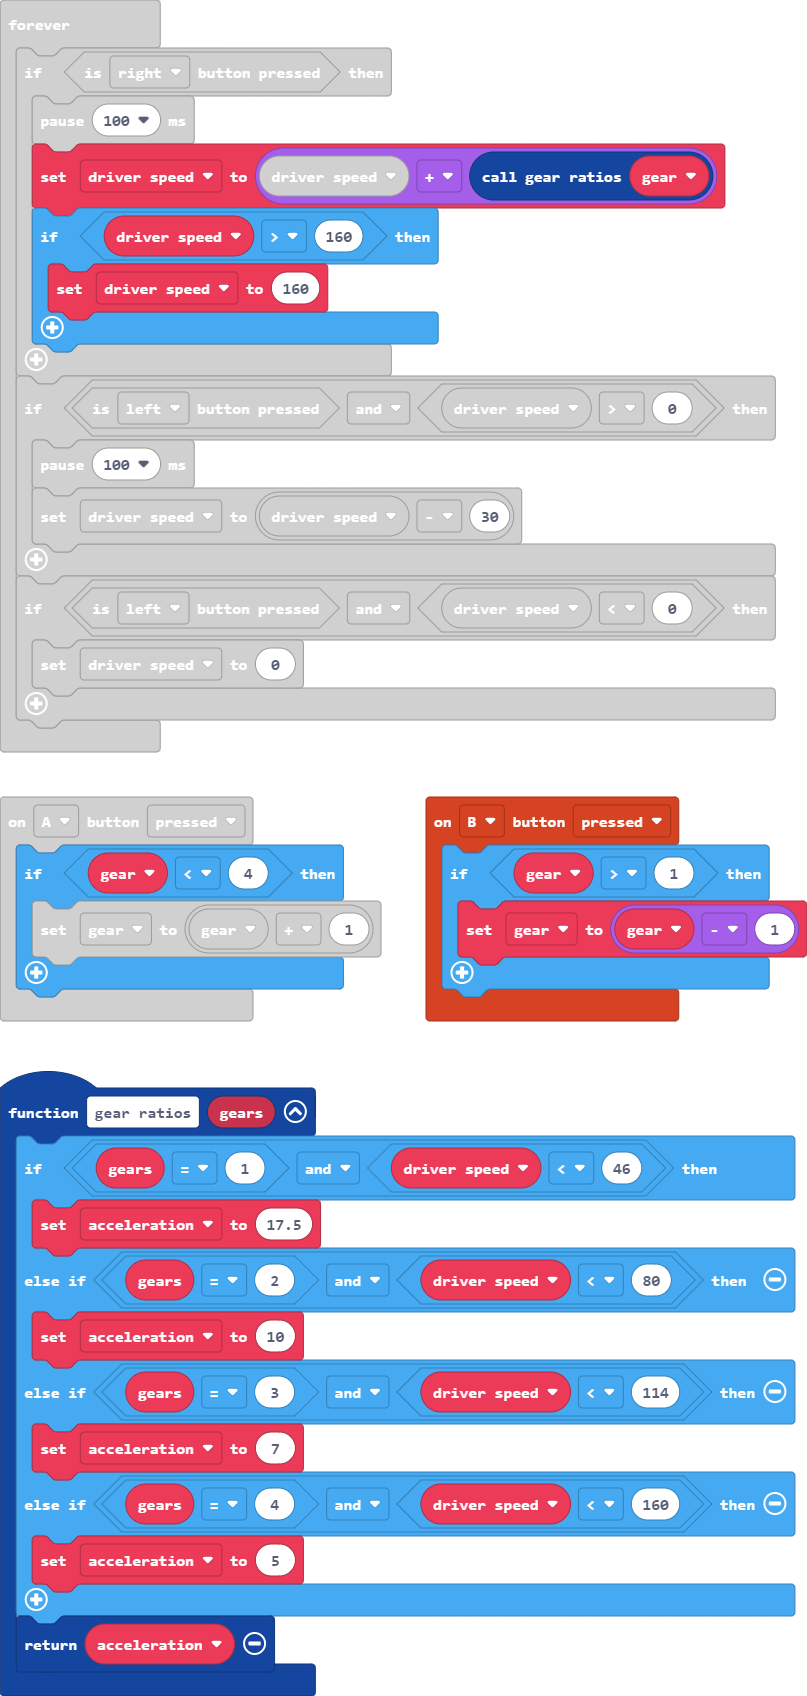
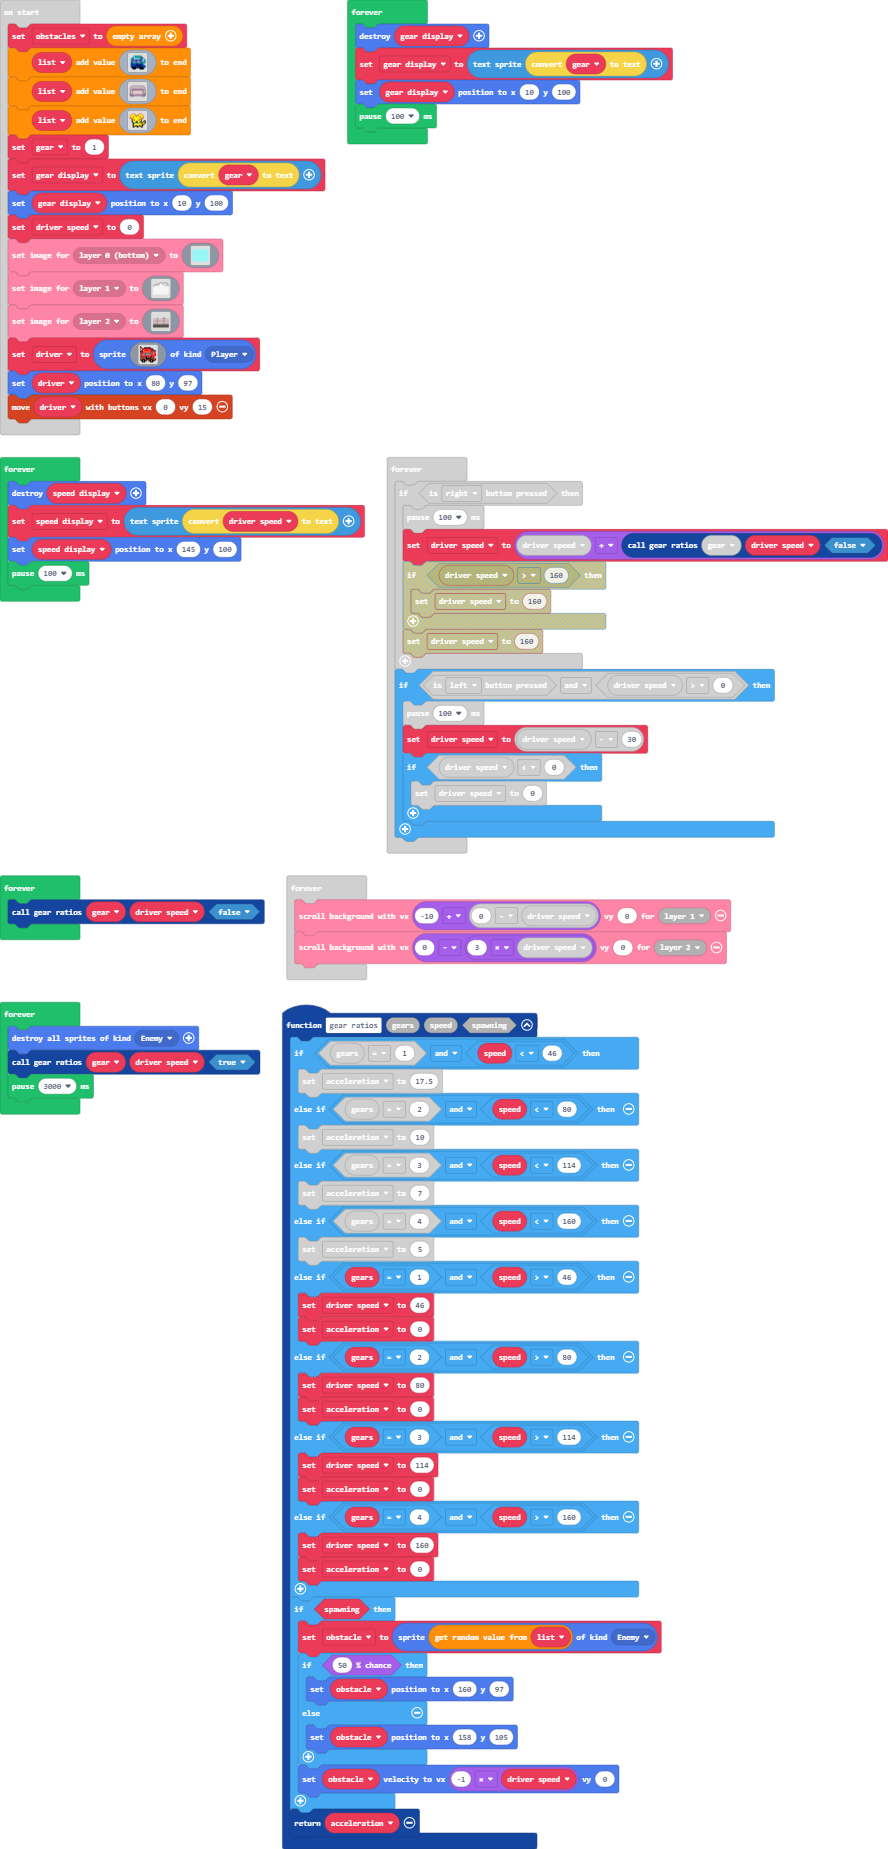
Update pxt.json, main.blocks, main.ts

diff --git a/main.ts b/main.ts
@@ -1,12 +1,36 @@
-function gear_ratios (gears: number) {
-    if (gears == 1 && driver_speed < 46) {
+namespace SpriteKind {
+    export const stationary = SpriteKind.create()
+}
+function gear_ratios (gears: number, speed: number, spawning: boolean) {
+    if (gears == 1 && speed < 46) {
         acceleration = 17.5
-    } else if (gears == 2 && driver_speed < 80) {
+    } else if (gears == 2 && speed < 80) {
         acceleration = 10
-    } else if (gears == 3 && driver_speed < 114) {
+    } else if (gears == 3 && speed < 114) {
         acceleration = 7
-    } else if (gears == 4 && driver_speed < 160) {
+    } else if (gears == 4 && speed < 160) {
         acceleration = 5
+    } else if (gears == 1 && speed > 46) {
+        driver_speed = 46
+        acceleration = 0
+    } else if (gears == 2 && speed > 80) {
+        driver_speed = 80
+        acceleration = 0
+    } else if (gears == 3 && speed > 114) {
+        driver_speed = 114
+        acceleration = 0
+    } else if (gears == 4 && speed > 160) {
+        driver_speed = 160
+        acceleration = 0
+    }
+    if (spawning) {
+        obstacle = sprites.create(list._pickRandom(), SpriteKind.Enemy)
+        if (Math.percentChance(50)) {
+            obstacle.setPosition(160, 97)
+        } else {
+            obstacle.setPosition(158, 105)
+        }
+        obstacle.setVelocity(-1 * driver_speed, 0)
     }
     return acceleration
 }
@@ -20,10 +44,68 @@ controller.A.onEvent(ControllerButtonEvent.Pressed, function () {
         gear = gear + 1
     }
 })
+let speed_display: TextSprite = null
+let obstacle: Sprite = null
 let acceleration = 0
 let driver_speed = 0
 let gear = 0
+let list: Image[] = []
+let obstacles: number[] = []
+list.push(img`
+    . . . . . . . . . . . . . . . . 
+    . . . . 6 6 6 6 6 6 6 6 . . . . 
+    . . . 6 9 6 6 6 6 6 6 c 6 . . . 
+    . . 6 c 9 6 6 6 6 6 6 c c 6 . . 
+    . 6 c c 9 9 9 9 9 9 6 c c 9 6 d 
+    . 6 c 6 8 8 8 8 8 8 8 b c 9 6 6 
+    . 6 6 8 b b 8 b b b 8 8 b 9 6 6 
+    . 6 8 b b b 8 b b b b 8 6 6 6 6 
+    . 8 8 6 6 6 8 6 6 6 6 6 8 6 6 6 
+    . 8 8 8 8 8 8 f 8 8 8 f 8 6 d d 
+    . 8 8 8 8 8 8 f 8 8 f 8 8 8 6 d 
+    . 8 8 8 8 8 8 f f f 8 8 8 8 8 8 
+    . 8 f f f f 8 8 8 8 f f f 8 8 8 
+    . . f f f f f 8 8 f f f f f 8 . 
+    . . . f f f . . . . f f f f . . 
+    . . . . . . . . . . . . . . . . 
+    `)
+list.push(img`
+    ...cccccccccccccccccc...
+    ..cbddddddddddddddddbc..
+    .cddddddddddddddddddddc.
+    .cddbbbbbbbbbbbbbbbbddc.
+    .cdbbbbbbbbbbbbbbbbbbdc.
+    .cdbbbbbbbbbbbbbbbbbbdc.
+    cbbbccccccccccccccccbbbc
+    cddcbddddddddddddddbcddc
+    cddcddddddddddddddddcddc
+    cddcddddddddddddddddcddc
+    cddcddddddddddddddddcddc
+    cbdcddddddddddddddddcdbc
+    ccbbbbbbbbbbbbbbbbbbbbcc
+    ccbbbbbbbbbbbbbbbbbbbbcc
+    cccccccccccccccccccccccc
+    ..cbbc............cbbc..
+    `)
+list.push(img`
+    . . 4 4 4 . . . . 4 4 4 . . . . 
+    . 4 5 5 5 e . . e 5 5 5 4 . . . 
+    4 5 5 5 5 5 e e 5 5 5 5 5 4 . . 
+    4 5 5 4 4 5 5 5 5 4 4 5 5 4 . . 
+    e 5 4 4 5 5 5 5 5 5 4 4 5 e . . 
+    . e e 5 5 5 5 5 5 5 5 e e . . . 
+    . . e 5 f 5 5 5 5 f 5 e . . . . 
+    . . f 5 5 5 4 4 5 5 5 f . . f f 
+    . . f 4 5 5 f f 5 5 6 f . f 5 f 
+    . . . f 6 6 6 6 6 6 4 4 f 5 5 f 
+    . . . f 4 5 5 5 5 5 5 4 4 5 f . 
+    . . . f 5 5 5 5 5 4 5 5 f f . . 
+    . . . f 5 f f f 5 f f 5 f . . . 
+    . . . f f . . f f . . f f . . . 
+    `)
 gear = 1
+let gear_display = textsprite.create(convertToText(gear))
+gear_display.setPosition(10, 100)
 driver_speed = 0
 scroller.setLayerImage(scroller.BackgroundLayer.Layer0, assets.image`sky`)
 scroller.setLayerImage(scroller.BackgroundLayer.Layer1, img`
@@ -274,6 +356,12 @@ let driver = sprites.create(assets.image`race car`, SpriteKind.Player)
 driver.setPosition(80, 97)
 controller.moveSprite(driver, 0, 15)
 forever(function () {
+    sprites.destroy(gear_display)
+    gear_display = textsprite.create(convertToText(gear))
+    gear_display.setPosition(10, 100)
+    pause(100)
+})
+forever(function () {
     if (driver.y <= 92) {
         driver.setPosition(80, 93)
     } else if (driver.y >= 116) {
@@ -281,22 +369,33 @@ forever(function () {
     }
 })
 forever(function () {
+    sprites.destroy(speed_display)
+    speed_display = textsprite.create(convertToText(driver_speed))
+    speed_display.setPosition(145, 100)
+    pause(100)
+})
+forever(function () {
     if (controller.right.isPressed()) {
         pause(100)
-        driver_speed = driver_speed + gear_ratios(gear)
-        if (driver_speed > 160) {
-            driver_speed = 160
-        }
+        driver_speed = driver_speed + gear_ratios(gear, driver_speed, false)
     }
     if (controller.left.isPressed() && driver_speed > 0) {
         pause(100)
         driver_speed = driver_speed - 30
-    }
-    if (controller.left.isPressed() && driver_speed < 0) {
-        driver_speed = 0
+        if (driver_speed < 0) {
+            driver_speed = 0
+        }
     }
 })
 forever(function () {
-    scroller.scrollBackgroundWithSpeed(-10 + 1 / 2 * (0 - driver_speed), 0, scroller.BackgroundLayer.Layer1)
-    scroller.scrollBackgroundWithSpeed(0 - driver_speed, 0, scroller.BackgroundLayer.Layer2)
+    gear_ratios(gear, driver_speed, false)
+})
+forever(function () {
+    scroller.scrollBackgroundWithSpeed(-10 + (0 - driver_speed), 0, scroller.BackgroundLayer.Layer1)
+    scroller.scrollBackgroundWithSpeed(0 - 3 * driver_speed, 0, scroller.BackgroundLayer.Layer2)
+})
+forever(function () {
+    sprites.destroyAllSpritesOfKind(SpriteKind.Enemy)
+    gear_ratios(gear, driver_speed, true)
+    pause(3000)
 })
